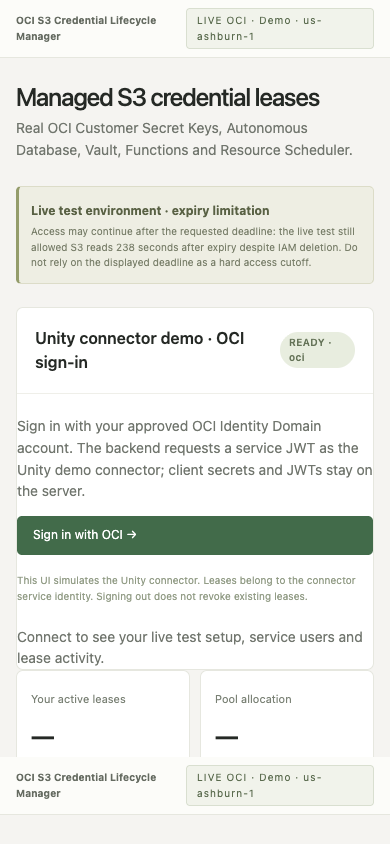
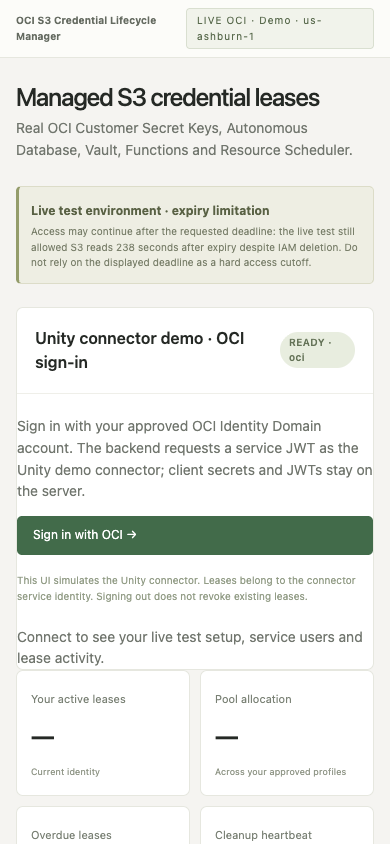
Deploy cleaned runtime and verify approved OCI rollout

diff --git a/scripts/build_identity_release.py b/scripts/build_identity_release.py
@@ -32,7 +32,18 @@ def ssh(code,data=None):
 try:
  save(True);apply()
  ssh('sudo tee /opt/lcm-live/identity-source.tar.xz >/dev/null',(ROOT/'release/lcm-live-source.tar.xz').read_bytes())
- result=ssh('sudo /opt/lcm-live/venv/bin/python -',b"import tarfile,subprocess\nwith tarfile.open('/opt/lcm-live/identity-source.tar.xz') as t:t.extractall('/opt/lcm-live/source',filter='data')\nsubprocess.run(['/opt/lcm-live/venv/bin/python','/opt/lcm-live/source/scripts/build_function_image.py'],check=True)\n")
+ result=ssh('sudo /opt/lcm-live/venv/bin/python -',b"""import tarfile,subprocess
+from pathlib import Path
+root=Path('/opt/lcm-live/source')
+with tarfile.open('/opt/lcm-live/identity-source.tar.xz') as t:
+ names=set(t.getnames())
+ # Remove retired source files before extraction; keep runtime state and build manifests.
+ for directory in ('shared','service','scripts','functions','db'):
+  for p in (root/directory).rglob('*'):
+   if p.is_file() and str(p.relative_to(root)) not in names:p.unlink()
+ t.extractall(root,filter='data')
+subprocess.run(['/opt/lcm-live/venv/bin/python','/opt/lcm-live/source/scripts/build_function_image.py'],check=True)
+""")
  (ROOT/'.local/identity-build.log').write_bytes(result.stdout+result.stderr)
  manifest=ssh('sudo cat /opt/lcm-live/source/function-build-manifest.json').stdout
  (ROOT/'release/live-image-manifest.json').write_bytes(manifest)

diff --git a/scripts/verify_gateway_deployment.py b/scripts/verify_gateway_deployment.py
@@ -54,6 +54,6 @@ assert job.lifecycle_state=='SUCCEEDED'
 out={'job_id':job.id,'state':job.lifecycle_state,'image':manifest['image'],'functions':functions,'runtime':host,
  'gateway_validates_jwt':True,'backend_revalidates_service_jwt':False,'identity_headers_overwritten':True,
  'api_listener_gateway_nsg_only':True,'temporary_build_permission_removed':True,
- 'unit_tests_passed':70,'production_ready':False}
+ 'production_ready':False}
 (ROOT/'docs/gateway-auth-deployment.json').write_text(json.dumps(out,indent=2)+'\n')
 print(json.dumps(out,indent=2))

diff --git a/docs/cleanup.md b/docs/cleanup.md
@@ -47,13 +47,17 @@ Validation: 69 unit tests passed; the cleaned live source/package passed the pri
 bearer-token scan. Read-only live checks returned 200 for the UI, liveness, readiness, reference,
 authorized profiles, metrics and test setup; anonymous lifecycle access returned 401.
 
-## Pending runtime rollout
+## Completed runtime rollout
 
-The source cleanup is prepared locally. The running image and published OCI template have not
-been updated. Automatic approval review rejected the build/deployment action because it changes
-live-stack build permissions and publishes an image. Explicit approval is needed to build the
-cleaned image, remove temporary publishing permissions, deploy it to the existing VM/Functions,
-refresh the private template and verify the live flow. No database migration or lease drain is
-part of that rollout. Restarting the UI will require users to sign in again.
+The user approved the rollout after automatic approval review requested explicit authorization.
+The cleaned image is deployed on the existing VM and all four Functions. Temporary image
+publishing permission was removed and database bootstrap stayed disabled. The private Resource
+Manager template was refreshed and its downloaded archive hash verified.
+
+The build now removes retired files from the managed source directories before extraction.
+The running API's source hashes match the cleaned repository; retired host scripts are absent.
+Eight gateway/backend authentication checks and all automated sign-in UI checks passed. These
+checks do not perform the operator's interactive login or repeat the historical S3 expiry suite.
+The UI restart clears browser sessions; sign in with OCI again. Existing leases were preserved.
 
 Actual Unity integration and the previously recorded expiry/propagation acceptance limits remain.
